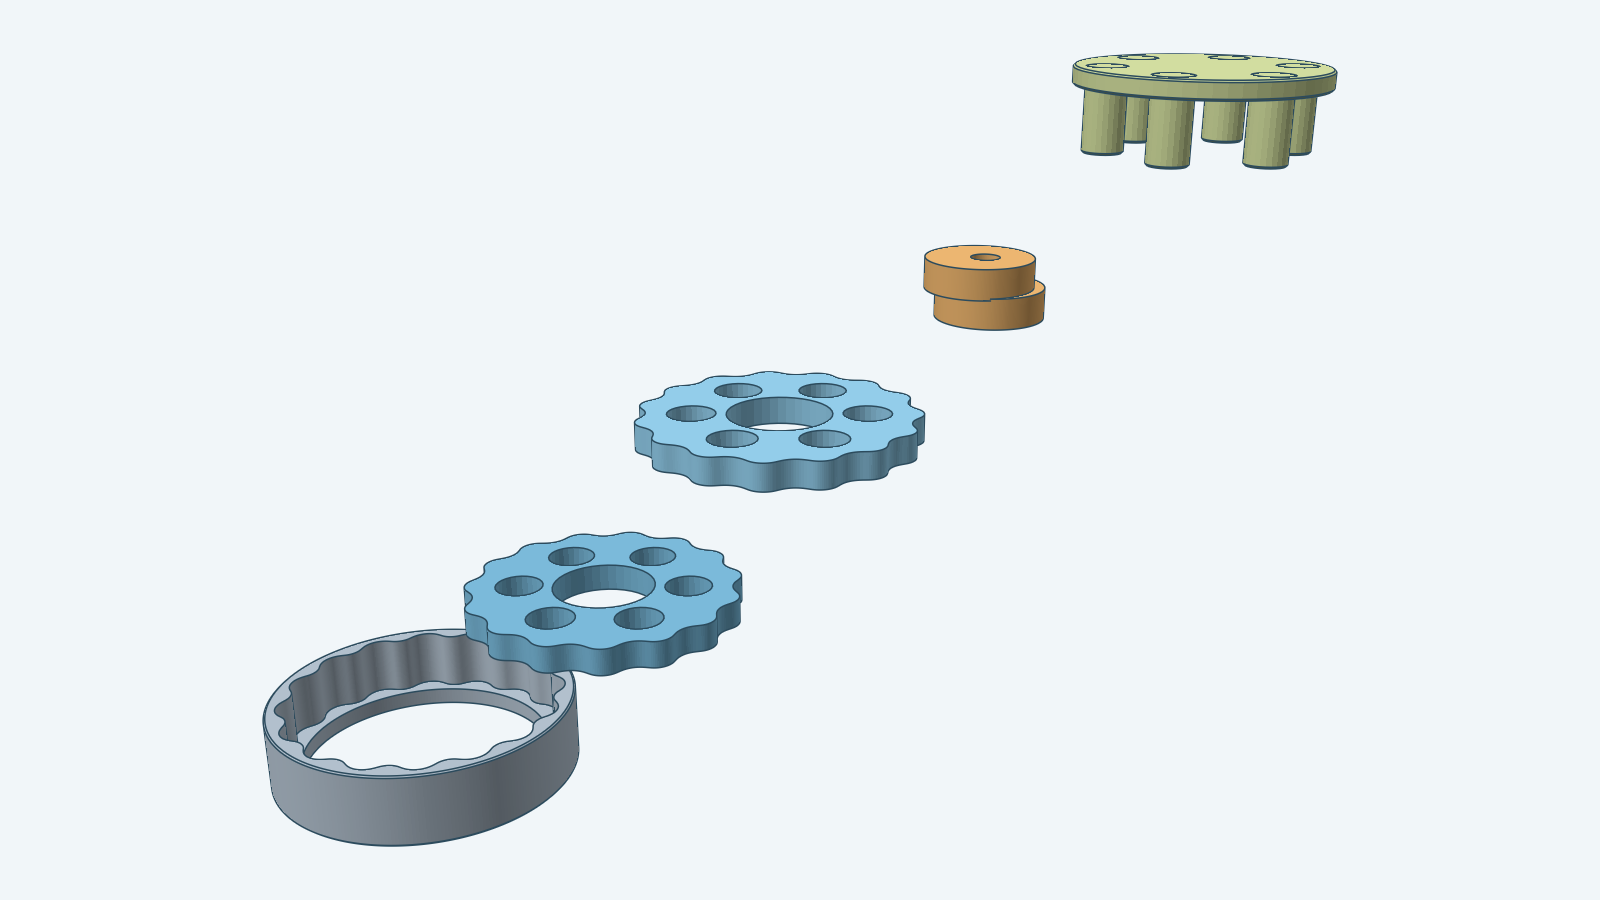
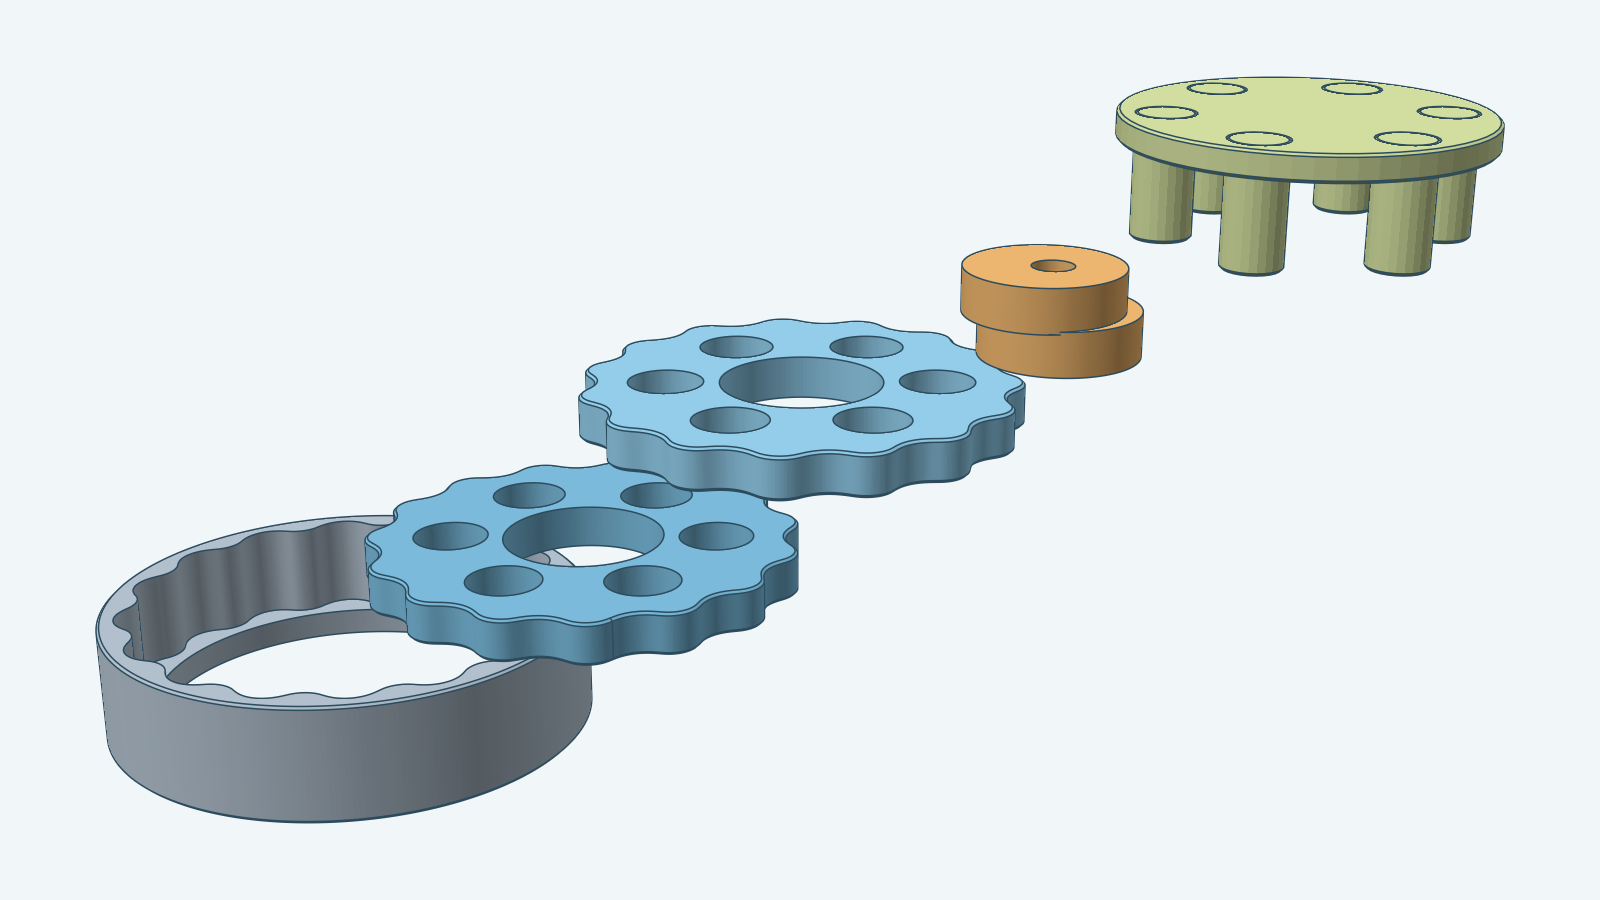
tighten cycloidal hero layout

Changed region(s): [[0.0625, 0.0311, 0.9375, 0.9644]]

diff --git a/tools/render/cycloidal.go b/tools/render/cycloidal.go
@@ -13,7 +13,7 @@ import (
 )
 
 // cycloidalLayout is the exploded layout of the default two-disc drive: each part moves along a staircase,
-// 55 mm along X and 45 mm along Z per step, so no part hides another.
+// 44 mm along X and 22 mm along Z per step, so the parts sit close together and every part stays visible.
 var cycloidalLayout = map[string]int{
 	cycloidal.HousingName:     -2,
 	cycloidal.DiscName(0):     -1,
@@ -23,7 +23,7 @@ var cycloidalLayout = map[string]int{
 }
 
 // cycloidalStep is the offset of one layout step.
-var cycloidalStep = r3.NewVec(55, 0, 45)
+var cycloidalStep = r3.NewVec(44, 0, 22)
 
 var cycloidalColors = map[string]solidlens.Color{
 	cycloidal.HousingName:     solidlens.RGB(0.38, 0.45, 0.52),
